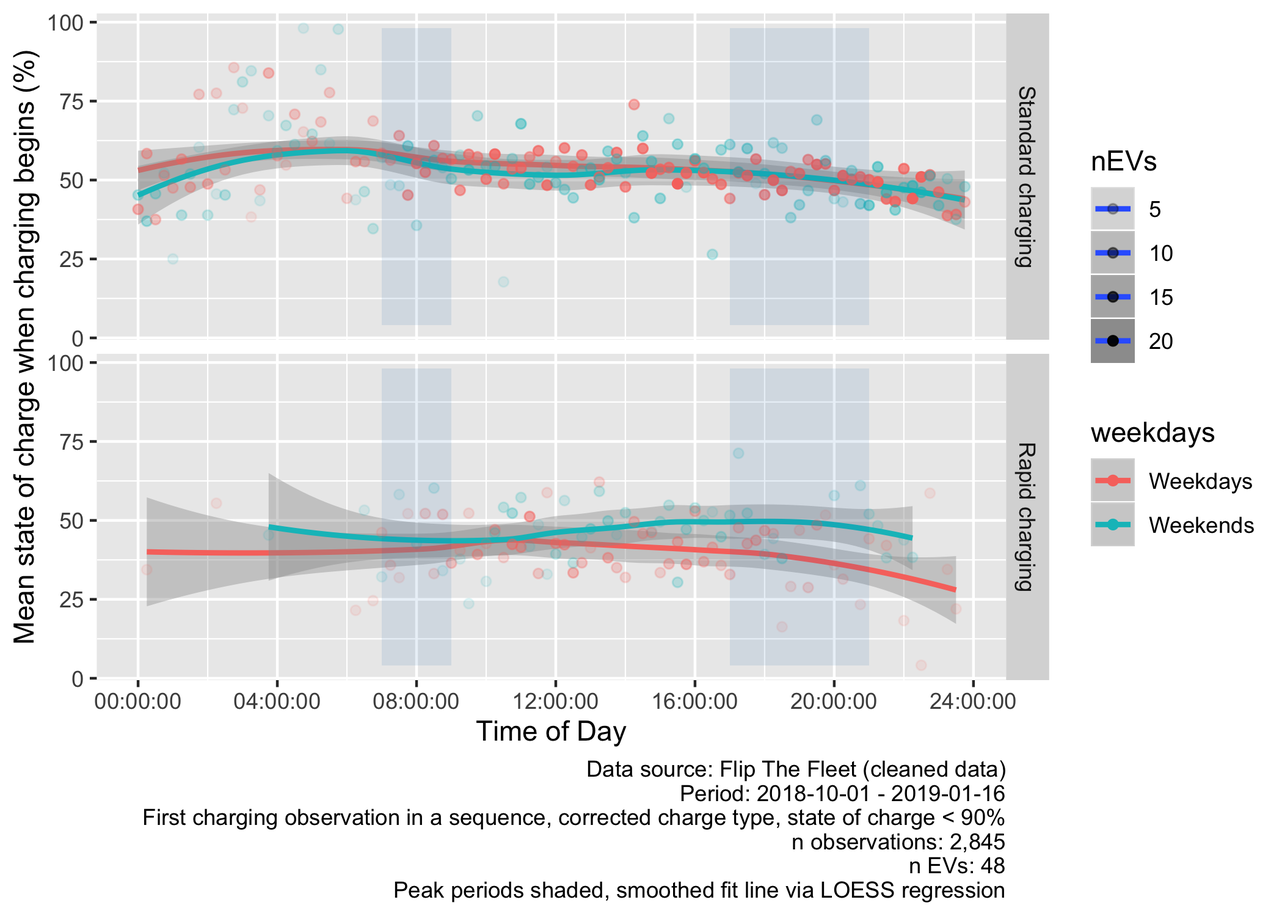
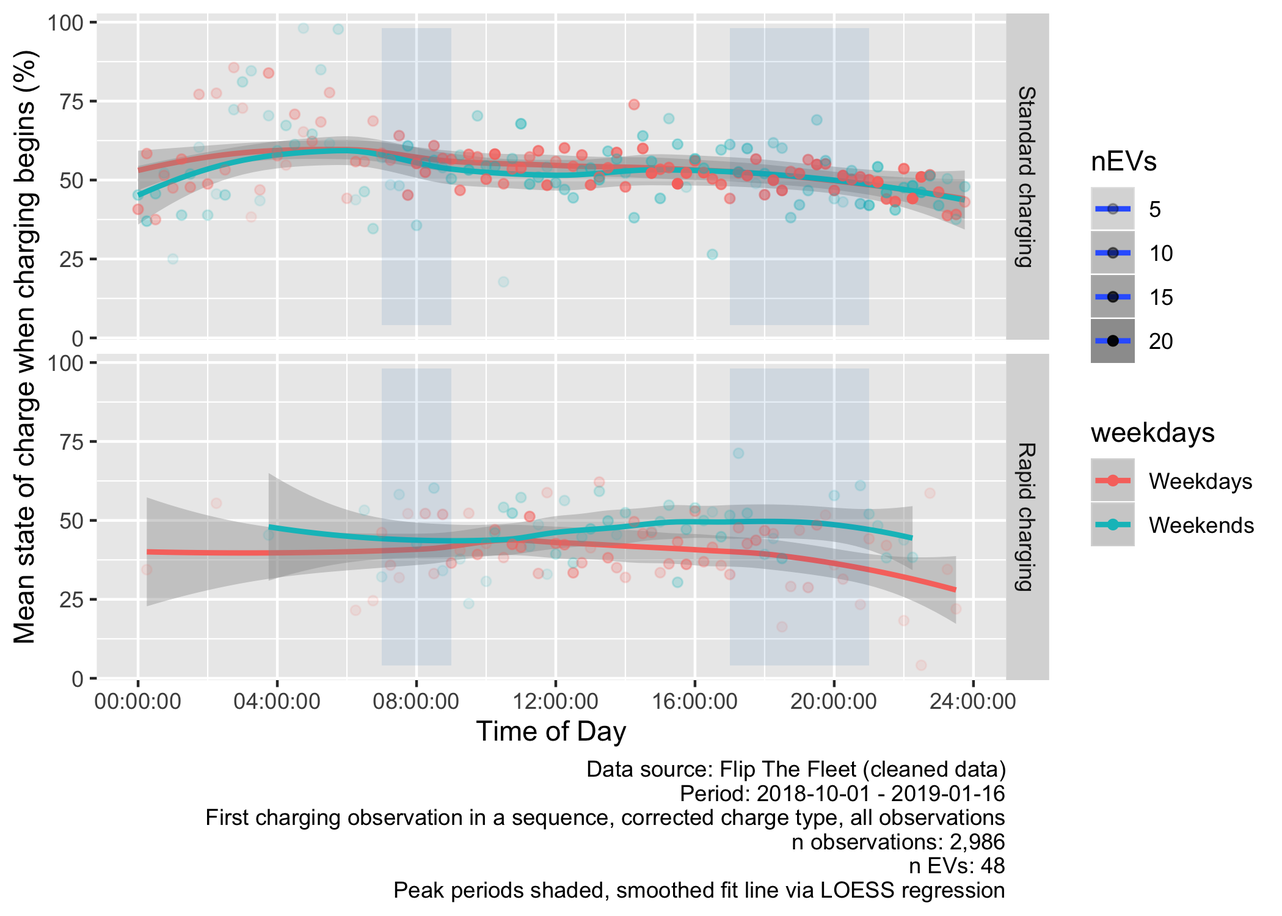
fixed % charge plots (again)

Changed region(s): [[0.1239, 0.8592, 0.8051, 0.9206]]

diff --git a/docs/EVBB_report_1.1_7.4kW_EVBB_processed_all_v2.0_20190604.html b/docs/EVBB_report_1.1_7.4kW_EVBB_processed_all_v2.0_20190604.html
@@ -263,7 +263,7 @@ div.tocify {
 <h1 class="title toc-ignore">Analysis of electric vehicle usage patterns in New Zealand</h1>
 <h3 class="subtitle">Statistical report using Flip The Fleet data</h3>
 <h4 class="author">Rafferty Parker and Ben Anderson (<a href="https://www.otago.ac.nz/centre-sustainability/">Centre for Sustainability</a>, University of Otago, <a href="mailto:ben.anderson@otago.ac.nz" class="email">ben.anderson@otago.ac.nz</a>); Daniel Myall (Flip The Fleet, <a href="mailto:daniel@zeno.nz" class="email">daniel@zeno.nz</a>)</h4>
-<h4 class="date">Last run at: 2019-11-19 13:33:03</h4>
+<h4 class="date">Last run at: 2019-11-19 16:20:26</h4>
 
 </div>
 
@@ -3300,20 +3300,15 @@ Figure 5.10: Value of state of charge at beginning of charging sequence (chargeT
 <li>132 of 379 (34.83%) rapid charging sequences with intial SoC &lt; 90% started with greater than 50% charge;</li>
 <li>1166 of 2466 (47.28%) standard charging sequences with intial SoC &lt; 90% started with greater than 50% charge;</li>
 </ul>
-<div class="figure"><span id="fig:SoCplotTiming1"></span>
-<img src="EVBB_report_1.1_7.4kW_EVBB_processed_all_v2.0_20190604_files/figure-html/SoCplotTiming-1.png" alt="Mean state of charge at beginning of charge sequence by time of day (chargeType corrected, values &gt; 90% removed)" width="672" />
+<div class="figure"><span id="fig:SoCplotTimingAll"></span>
+<img src="EVBB_report_1.1_7.4kW_EVBB_processed_all_v2.0_20190604_files/figure-html/SoCplotTimingAll-1.png" alt="Mean state of charge at beginning of charge sequence by time of day (chargeType corrected, all observations)" width="672" />
 <p class="caption">
-Figure 5.11: Mean state of charge at beginning of charge sequence by time of day (chargeType corrected, values &gt; 90% removed)
+Figure 5.11: Mean state of charge at beginning of charge sequence by time of day (chargeType corrected, all observations)
 </p>
 </div>
-<div class="figure"><span id="fig:SoCplotTiming2"></span>
-<img src="EVBB_report_1.1_7.4kW_EVBB_processed_all_v2.0_20190604_files/figure-html/SoCplotTiming-2.png" alt="Mean state of charge at beginning of charge sequence by time of day (chargeType corrected, values &gt; 90% removed)" width="672" />
-<p class="caption">
-Figure 5.12: Mean state of charge at beginning of charge sequence by time of day (chargeType corrected, values &gt; 90% removed)
-</p>
-</div>
-<p>Finally, Figure <a href="#fig:SoCplotTiming"><strong>??</strong></a> shows the mean % charge by time of first charging observation in a sequence using the cleaned and corrected inferred start/end of charging sequence data. The plot suggests that this capacity may be relatively stable throughout the day albiet with slightly higher mean capacity around the morning peak as we would expect given over-night charging. It is unlikely that this early morning capacity would be willingly made available for V2G since the EV may be used in the near future although this may not always be the case. However it is interesting to note that mean capacity at start of charge in the evening peak period is still roughly 50% indicating relatively substantial power availability.</p>
-<p>Making the assumption that each EV has a 24 kWh battery we can calculate the <em>available</em> kWh at the start of each charge for V2G purposes. This is shown in Table <a href="#tab:v2gEstimates">5.6</a> and Figure <a href="#fig:v2gEstimates">5.13</a>.</p>
+<p>Finally, Figure <a href="#fig:SoCplotTimingAll">5.11</a> shows the mean % charge at the time of first charging observation in a sequence using the cleaned and corrected inferred start/end of charging sequence data. This includes <em>all</em> events, even the brief ‘top-up’ early morning events to indicate when the stored energy is available at the start of a charge sequence.</p>
+<p>The plot suggests that available capacity may be relatively stable throughout the day albiet with a higher mean capacity around the morning peak as we would expect given over-night charging. It is unlikely that this early morning capacity would be willingly made available for V2G since the EV may be used in the near future although this may not always be the case. However it is interesting to note that mean capacity at start of charge in the evening peak period is still roughly 50% indicating relatively good power availability even when we might expect the vehicle to have recently returned home.</p>
+<p>Making the assumption that each EV has a 24 kWh battery we can calculate the <em>available</em> kWh at the start of each charge for V2G purposes. This is shown in Table <a href="#tab:v2gEstimates">5.6</a> and Figure <a href="#fig:v2gEstimates">5.12</a>.</p>
 <table class="table" style="margin-left: auto; margin-right: auto;">
 <caption>
 <span id="tab:v2gEstimates">Table 5.6: </span>Estimated kWh available by time period and charge type
@@ -3546,7 +3541,7 @@ Late evening
 <div class="figure"><span id="fig:v2gEstimates"></span>
 <img src="EVBB_report_1.1_7.4kW_EVBB_processed_all_v2.0_20190604_files/figure-html/v2gEstimates-1.png" alt="Estimates of available kWh by time period" width="672" />
 <p class="caption">
-Figure 5.13: Estimates of available kWh by time period
+Figure 5.12: Estimates of available kWh by time period
 </p>
 </div>
 <p>These show, for example, that the mean kWh available during the evening peak period is 11.67 with a range of 2.14 to 21.58 kWh. We can also see that similar values are available in the morning peak period but further analysis would be required to estimate how much of this could be used during the period without impacting subsequent use. Other analyses could include:</p>
@@ -3561,7 +3556,7 @@ Figure 5.13: Estimates of available kWh by time period
 </div>
 <div id="end-of-charging-sequence" class="section level3">
 <h3><span class="header-section-number">5.3.2</span> End of charging sequence</h3>
-<p>Figure <a href="#fig:SoCplotEnd">5.14</a> shows the state of charge at the end of a charging sequence using the cleaned and corrected inferred start/end of charging sequence data, We can now see that the majority of standard charge sequences end with close to 100% charge but most rapid charge sequences end with around 75-80% charge.</p>
+<p>Figure <a href="#fig:SoCplotEnd">5.13</a> shows the state of charge at the end of a charging sequence using the cleaned and corrected inferred start/end of charging sequence data, We can now see that the majority of standard charge sequences end with close to 100% charge but most rapid charge sequences end with around 75-80% charge.</p>
 <table class="table" style="margin-left: auto; margin-right: auto;">
 <caption>
 <span id="tab:SoCplotEnd">Table 5.7: </span>Summary statistics for % state of charge on last charge in a sequence
@@ -3625,10 +3620,10 @@ Rapid charging
 <div class="figure"><span id="fig:SoCplotEnd"></span>
 <img src="EVBB_report_1.1_7.4kW_EVBB_processed_all_v2.0_20190604_files/figure-html/SoCplotEnd-1.png" alt="Value of state of charge at end of charging sequence (chargeType corrected, all values" width="672" />
 <p class="caption">
-Figure 5.14: Value of state of charge at end of charging sequence (chargeType corrected, all values
+Figure 5.13: Value of state of charge at end of charging sequence (chargeType corrected, all values
 </p>
 </div>
-<p>Figure <a href="#fig:SoCplotDiff">5.15</a> shows the difference in charge gain for all charge sequences where the starting charge was less than 90% (as above).</p>
+<p>Figure <a href="#fig:SoCplotDiff">5.14</a> shows the difference in charge gain for all charge sequences where the starting charge was less than 90% (as above).</p>
 <table class="table" style="margin-left: auto; margin-right: auto;">
 <caption>
 <span id="tab:SoCplotDiff">Table 5.8: </span>Summary statistics for % state of charge gain by last charge in a sequence
@@ -3692,7 +3687,7 @@ Rapid charging
 <div class="figure"><span id="fig:SoCplotDiff"></span>
 <img src="EVBB_report_1.1_7.4kW_EVBB_processed_all_v2.0_20190604_files/figure-html/SoCplotDiff-1.png" alt="Charge gain during charging sequence (chargeType corrected, all values" width="672" />
 <p class="caption">
-Figure 5.15: Charge gain during charging sequence (chargeType corrected, all values
+Figure 5.14: Charge gain during charging sequence (chargeType corrected, all values
 </p>
 </div>
 </div>
@@ -3704,47 +3699,47 @@ Figure 5.15: Charge gain during charging sequence (chargeType corrected, all val
 <blockquote>
 <p>The remaining results in this section are experimental and preliminary. Use with care (if at all) or just skip to the next section (<a href="#imputePower">5.5</a>).</p>
 </blockquote>
-<p>Figure <a href="#fig:nonRapidPowerPlotDT">5.16</a> shows the mean charging demand in kW calculated across all observations after setting rapid charge observations to 0 kW. As we would expect the kW load due to the EVs follows essentially the same shape as the charging event proportions shown above but with slightly more evidence of a 13:00 and 16:00 mini-peak and distinct differences between weekday and weekend mornings. As before, the apparent rapid increase in demand (and the pre-20:00 spike) are more likely to be due to decreasing numbers of ‘non-charging’ observations than increases in charging (see Figure <a href="#fig:chargeTimeDensity">5.3</a>.</p>
+<p>Figure <a href="#fig:nonRapidPowerPlotDT">5.15</a> shows the mean charging demand in kW calculated across all observations after setting rapid charge observations to 0 kW. As we would expect the kW load due to the EVs follows essentially the same shape as the charging event proportions shown above but with slightly more evidence of a 13:00 and 16:00 mini-peak and distinct differences between weekday and weekend mornings. As before, the apparent rapid increase in demand (and the pre-20:00 spike) are more likely to be due to decreasing numbers of ‘non-charging’ observations than increases in charging (see Figure <a href="#fig:chargeTimeDensity">5.3</a>.</p>
 <div class="figure"><span id="fig:nonRapidPowerPlotDT"></span>
 <img src="EVBB_report_1.1_7.4kW_EVBB_processed_all_v2.0_20190604_files/figure-html/nonRapidPowerPlotDT-1.png" alt="Mean kW per quarter hour (treating rapid charging as 0 kW)" width="672" />
 <p class="caption">
-Figure 5.16: Mean kW per quarter hour (treating rapid charging as 0 kW)
+Figure 5.15: Mean kW per quarter hour (treating rapid charging as 0 kW)
 </p>
 </div>
-<p>Figure <a href="#fig:rapidPowerPlotDT">5.17</a> repeats Figure <a href="#fig:nonRapidPowerPlotDT">5.16</a> but shows the mean charging demand in kW calculated across all observations after setting standard charge observations to 0 kW. Again, the kW load due to the EVs follows essentially the same shape as the charging event counts shown above and the low mean value should remind us that rapid charging was relatively rare in the data.</p>
+<p>Figure <a href="#fig:rapidPowerPlotDT">5.16</a> repeats Figure <a href="#fig:nonRapidPowerPlotDT">5.15</a> but shows the mean charging demand in kW calculated across all observations after setting standard charge observations to 0 kW. Again, the kW load due to the EVs follows essentially the same shape as the charging event counts shown above and the low mean value should remind us that rapid charging was relatively rare in the data.</p>
 <div class="figure"><span id="fig:rapidPowerPlotDT"></span>
 <img src="EVBB_report_1.1_7.4kW_EVBB_processed_all_v2.0_20190604_files/figure-html/rapidPowerPlotDT-1.png" alt="Mean kW per quarter hour (treating standard charging as 0 kW)" width="672" />
 <p class="caption">
-Figure 5.17: Mean kW per quarter hour (treating standard charging as 0 kW)
+Figure 5.16: Mean kW per quarter hour (treating standard charging as 0 kW)
 </p>
 </div>
 <p>In next plots we use transparency to indicate the number of EVs contributing to each of the mean calculations to give a guide to their reliability and indicate the relative proportion of sample EVs that contribute to each mean value. Dots with stronger colours indicate means calculated from a larger number of EVs and, given the data gaps noted in Section <a href="#background">4.1</a>, this therefore indicates patterns which are generally shared across a larger number of EVs. We would therefore expect darker dots (most vehicles) durng overnight charge times and lighter plots (fewer vehicles co-incidentally charging) through the day.</p>
-<p>Figure <a href="#fig:meanChargeByTimeStd">5.18</a> shows the mean power demand for standard charging observations by time of day and weekdays vs weekends for the selected time period. This plot appears to show that there are three peaks in standard charging, one at 10:00, one at 18:00 (possibly based on fewer EVs) and one after midnight on weekdays. There are also noticeable 07:00 and 16:00 charging blips. On the other hand at weekends the daytime peak shifts to 14:00. Thus, while our previous analysis suggested that charging events were more likely to start later in the evening, the power demand of earlier charging events may actually be relatively high and co-incide with existing peak demand periods.</p>
+<p>Figure <a href="#fig:meanChargeByTimeStd">5.17</a> shows the mean power demand for standard charging observations by time of day and weekdays vs weekends for the selected time period. This plot appears to show that there are three peaks in standard charging, one at 10:00, one at 18:00 (possibly based on fewer EVs) and one after midnight on weekdays. There are also noticeable 07:00 and 16:00 charging blips. On the other hand at weekends the daytime peak shifts to 14:00. Thus, while our previous analysis suggested that charging events were more likely to start later in the evening, the power demand of earlier charging events may actually be relatively high and co-incide with existing peak demand periods.</p>
 <div class="figure"><span id="fig:meanChargeByTimeStd"></span>
 <img src="EVBB_report_1.1_7.4kW_EVBB_processed_all_v2.0_20190604_files/figure-html/meanChargeByTimeStd-1.png" alt="Mean charging power demand (kW) by time of day ('standard' charging)" width="672" />
 <p class="caption">
-Figure 5.18: Mean charging power demand (kW) by time of day (‘standard’ charging)
+Figure 5.17: Mean charging power demand (kW) by time of day (‘standard’ charging)
 </p>
 </div>
-<p>Rapid charging however has no detectable pattern other than a clear increase in density during weekday daytimes (Figure <a href="#fig:meanChargeByTimeRapid">5.19</a>). However, we can now see the effect that rapid charging may have with significant EV uptake.</p>
+<p>Rapid charging however has no detectable pattern other than a clear increase in density during weekday daytimes (Figure <a href="#fig:meanChargeByTimeRapid">5.18</a>). However, we can now see the effect that rapid charging may have with significant EV uptake.</p>
 <div class="figure"><span id="fig:meanChargeByTimeRapid"></span>
 <img src="EVBB_report_1.1_7.4kW_EVBB_processed_all_v2.0_20190604_files/figure-html/meanChargeByTimeRapid-1.png" alt="Mean charging power demand (kW) by time of day ('rapid' charging)" width="672" />
 <p class="caption">
-Figure 5.19: Mean charging power demand (kW) by time of day (‘rapid’ charging)
+Figure 5.18: Mean charging power demand (kW) by time of day (‘rapid’ charging)
 </p>
 </div>
-<p>It is possible that the ‘standard charge’ day-time peak is skewed by mis-classified short low power ‘Rapid charge’ observations (see Section <a href="#chargeType">4.3.1</a>). Figure <a href="#fig:medianChargeByTime">5.20</a> attempts to allow for this misclassification by plotting the median rather than the mean. The plot more clearly shows the 10:00 weekday spike which, if we assume that the mis-classified ‘Rapid charges’ will be skewing the standard charge mean value upwards, is likely to be due to mis-classified ‘Rapid charging’. However the 18:00 peak persists as does the 14:00 weekend peak while overnight charging levels are relatively stable as we would expect from <a href="#fig:meanChargeByTimeStd">5.18</a>.</p>
+<p>It is possible that the ‘standard charge’ day-time peak is skewed by mis-classified short low power ‘Rapid charge’ observations (see Section <a href="#chargeType">4.3.1</a>). Figure <a href="#fig:medianChargeByTime">5.19</a> attempts to allow for this misclassification by plotting the median rather than the mean. The plot more clearly shows the 10:00 weekday spike which, if we assume that the mis-classified ‘Rapid charges’ will be skewing the standard charge mean value upwards, is likely to be due to mis-classified ‘Rapid charging’. However the 18:00 peak persists as does the 14:00 weekend peak while overnight charging levels are relatively stable as we would expect from <a href="#fig:meanChargeByTimeStd">5.17</a>.</p>
 <div class="figure"><span id="fig:medianChargeByTime"></span>
 <img src="EVBB_report_1.1_7.4kW_EVBB_processed_all_v2.0_20190604_files/figure-html/medianChargeByTime-1.png" alt="Median charging power demand (kW) by time of day" width="672" />
 <p class="caption">
-Figure 5.20: Median charging power demand (kW) by time of day
+Figure 5.19: Median charging power demand (kW) by time of day
 </p>
 </div>
-<p>Figure <a href="#fig:meanChargeByTimeMonth">5.21</a> repeats the median power-based analysis for ‘Standard charging’ but shows the results by month. While the sample size is probably too small to draw robust conclusions there appear to be differences between months with December showing few discernable peaks and September and January showing much lower daytime weekday charging. In addition, weekdays and weekends are much more similar in November and December.</p>
+<p>Figure <a href="#fig:meanChargeByTimeMonth">5.20</a> repeats the median power-based analysis for ‘Standard charging’ but shows the results by month. While the sample size is probably too small to draw robust conclusions there appear to be differences between months with December showing few discernable peaks and September and January showing much lower daytime weekday charging. In addition, weekdays and weekends are much more similar in November and December.</p>
 <div class="figure"><span id="fig:meanChargeByTimeMonth"></span>
 <img src="EVBB_report_1.1_7.4kW_EVBB_processed_all_v2.0_20190604_files/figure-html/meanChargeByTimeMonth-1.png" alt="Median charging power demand (kW) by time of day and month" width="672" />
 <p class="caption">
-Figure 5.21: Median charging power demand (kW) by time of day and month
+Figure 5.20: Median charging power demand (kW) by time of day and month
 </p>
 </div>
 <div id="power-demand-summary" class="section level3">
@@ -3974,7 +3969,7 @@ Max. :6.000
 <div class="figure"><span id="fig:make1minkW"></span>
 <img src="EVBB_report_1.1_7.4kW_EVBB_processed_all_v2.0_20190604_files/figure-html/make1minkW-1.png" alt="Histogram of number of observations per aggregated floor(1 minute) date time per EV" width="672" />
 <p class="caption">
-Figure 5.22: Histogram of number of observations per aggregated floor(1 minute) date time per EV
+Figure 5.21: Histogram of number of observations per aggregated floor(1 minute) date time per EV
 </p>
 </div>
 <p>Next we:</p>
@@ -3984,7 +3979,7 @@ Figure 5.22: Histogram of number of observations per aggregated floor(1 minute) 
 <div class="figure"><span id="fig:chargingKwProfile"></span>
 <img src="EVBB_report_1.1_7.4kW_EVBB_processed_all_v2.0_20190604_files/figure-html/chargingKwProfile-1.png" alt="Half-hourly mean kW for all EVs - testing for missing data" width="672" />
 <p class="caption">
-Figure 5.23: Half-hourly mean kW for all EVs - testing for missing data
+Figure 5.22: Half-hourly mean kW for all EVs - testing for missing data
 </p>
 </div>
 <p>NB: calculating a mean across these half-hourly observations requires knowing how many half-hours are missing and so can be set to 0.</p>
@@ -4451,7 +4446,7 @@ Rapid charging
 <div class="figure"><span id="fig:estimatekWhByPeak"></span>
 <img src="EVBB_report_1.1_7.4kW_EVBB_processed_all_v2.0_20190604_files/figure-html/estimatekWhByPeak-1.png" alt="% total mean kWh consumption per EV" width="672" />
 <p class="caption">
-Figure 5.24: % total mean kWh consumption per EV
+Figure 5.23: % total mean kWh consumption per EV
 </p>
 </div>
 <p>Table <a href="#tab:estimatekWhByPeak">5.11</a> and Figure <a href="#tab:estimatekWhByPeak">5.11</a> repeats this analysis but shows the results by peak period. Clearly rapid charging during the day dominates energy (kWh) consumption with standard charging during the evening peak being responsible for a mere 3-4% of the energy consumed by EV charging.</p>
@@ -4464,17 +4459,17 @@ Figure 5.24: % total mean kWh consumption per EV
 </ul>
 <p><img src="EVBB_report_1.1_7.4kW_EVBB_processed_all_v2.0_20190604_files/figure-html/makeHalfHourlyKWh-1.png" width="672" /></p>
 <p>Next we simply sum these kWh values across all observations for different categories to get some idea of the relative proportions of energy being drawn in different contexts and charging situations</p>
-<p>Figure <a href="#fig:plotKWhWeekdays">5.25</a> shows the results of doing this for weekends and weekdays. Note that the totals have been ‘normalised’ to allow for the different numbers of weekdays vs weekend days but we make no checks as to whether the ‘right’ number of weekdays and weekend days are represented in the data (e.g. where we received no data due to inactivity - see above). This shows that the patterns of weekday vs weekend energy consumption are similar with overnight standard charging dominating. Consumption during morning peak periods is low but slightly higher in the evening peaks as the charging timing results above would imply. Rapid charging plays a larger role in day-time energy consumption but it’s rarity means that despite higher power demand (kW) it’s energy impact (kWh) is relatively low in this sample.</p>
+<p>Figure <a href="#fig:plotKWhWeekdays">5.24</a> shows the results of doing this for weekends and weekdays. Note that the totals have been ‘normalised’ to allow for the different numbers of weekdays vs weekend days but we make no checks as to whether the ‘right’ number of weekdays and weekend days are represented in the data (e.g. where we received no data due to inactivity - see above). This shows that the patterns of weekday vs weekend energy consumption are similar with overnight standard charging dominating. Consumption during morning peak periods is low but slightly higher in the evening peaks as the charging timing results above would imply. Rapid charging plays a larger role in day-time energy consumption but it’s rarity means that despite higher power demand (kW) it’s energy impact (kWh) is relatively low in this sample.</p>
 <div class="figure"><span id="fig:plotKWhWeekdays"></span>
 <img src="EVBB_report_1.1_7.4kW_EVBB_processed_all_v2.0_20190604_files/figure-html/plotKWhWeekdays-1.png" alt="Total normalised kWh by weekday and charge type" width="672" />
 <p class="caption">
-Figure 5.25: Total normalised kWh by weekday and charge type
+Figure 5.24: Total normalised kWh by weekday and charge type
 </p>
 </div>
 <div class="figure"><span id="fig:plotKWh"></span>
 <img src="EVBB_report_1.1_7.4kW_EVBB_processed_all_v2.0_20190604_files/figure-html/plotKWh-1.png" alt="% total kWh by charge type and peak period" width="672" />
 <p class="caption">
-Figure 5.26: % total kWh by charge type and peak period
+Figure 5.25: % total kWh by charge type and peak period
 </p>
 </div>
 <table class="table" style="margin-left: auto; margin-right: auto;">
@@ -5196,7 +5191,7 @@ Figure 6.5: Actual wholesale generation and estimated energy consumption under S
 <h1><span class="header-section-number">7</span> Summary</h1>
 <p>Based on a relatively small and probably non-representative sample of 48 domestic electric vehicles provided by our research partner <a href="https://flipthefleet.org/">FlipTheFleet</a> and which were monitored from Inf to -Inf we have found that:</p>
 <ul>
-<li><em>Power supplied</em>: The median power supplied during a charging event coded as ‘standard’ was 1.76 kW. The mean was slightly higher at 2.09 kW. Charging observations coded as ‘Rapid’ had a median of 1.76 kW (mean = 2.09 kW). Mean power when charging showed a complex temporal profile for weekday standard charging (Figure <a href="#fig:meanChargeByTimeStd">5.18</a>) with a peak of ~ 2.5kw at 10:00 and a second of the same value at around 18:00 with further peaks just after midnight. The inverse is seen on weekends with a charge peak during the middle of the day;</li>
+<li><em>Power supplied</em>: The median power supplied during a charging event coded as ‘standard’ was 1.76 kW. The mean was slightly higher at 2.09 kW. Charging observations coded as ‘Rapid’ had a median of 1.76 kW (mean = 2.09 kW). Mean power when charging showed a complex temporal profile for weekday standard charging (Figure <a href="#fig:meanChargeByTimeStd">5.17</a>) with a peak of ~ 2.5kw at 10:00 and a second of the same value at around 18:00 with further peaks just after midnight. The inverse is seen on weekends with a charge peak during the middle of the day;</li>
 <li><em>Charging duration</em>: Charging durations tended to fall into one of two groups. Longer ‘standard’ charges had a median duration of 207.12 minutes and a mean duration of 243.01 minutes. High power ‘Rapid’ charge events had a median duration of 14.26 minutes and a mean duration of 14.26 minutes;</li>
 <li><em>Time of day</em>: Standard charging events tended to be the most frequent around 22:00 on both weekdays and weekends, suggesting the drivers in our dataset utilise timers to take advantage of off-peak electricity although this is not universal with a substantial proportion of charging events starting earlier in the day and potentially at higher power levels (see above). Rapid charging events tended to begin at 11:30am on weekdays and 1pm during weekends;</li>
 <li><em>State of charge</em>: As has been previously shown <span class="citation">(Speidel and Bräunl 2014)</span>, any drivers begin recharging with greater than 50% charge still remaining in the battery for both standard and rapid charge events. This has clear implications both for the management of battery life and also for the potential for vehicle-to-grid power flows during peak demand periods where vehicles may be at or arriving home with substantial available charge.</li>
@@ -5221,17 +5216,17 @@ Figure 6.5: Actual wholesale generation and estimated energy consumption under S
 ##  n obs: 1882040 
 ##  n variables: 9 
 ## 
-## ── Variable type:character ─────────────────────────────────────────────────────────────────────────────────────────
+## ── Variable type:character ─────────────────────────────────────────────────────────────────────────────────────────────
 ##  variable missing complete       n min max empty n_unique
 ##  charging       0  1882040 1882040  26  31     0        2
 ##      dvID       0  1882040 1882040   9  10     0       52
 ##        id       0  1882040 1882040  32  32     0       52
 ## 
-## ── Variable type:difftime ──────────────────────────────────────────────────────────────────────────────────────────
+## ── Variable type:difftime ──────────────────────────────────────────────────────────────────────────────────────────────
 ##  variable missing complete       n    min        max     median n_unique
 ##   timeChr       0  1882040 1882040 0 secs 86399 secs 44877 secs    86400
 ## 
-## ── Variable type:numeric ───────────────────────────────────────────────────────────────────────────────────────────
+## ── Variable type:numeric ───────────────────────────────────────────────────────────────────────────────────────────────
 ##                 variable missing complete       n    mean      sd     p0
 ##          charge_power_kw       0  1882040 1882040    1.59   63.73      0
 ##              odometer_km 1255614   626426 1882040 7789.97 8268.44 -62920
@@ -5241,7 +5236,7 @@ Figure 6.5: Actual wholesale generation and estimated energy consumption under S
 ##  2166.25 5309    11154    73607    ▁▁▁▇▇▁▁▁
 ##    56.31   70.41    83.05  1677.72 ▇▁▁▁▁▁▁▁
 ## 
-## ── Variable type:POSIXct ───────────────────────────────────────────────────────────────────────────────────────────
+## ── Variable type:POSIXct ───────────────────────────────────────────────────────────────────────────────────────────────
 ##            variable missing complete       n        min        max
 ##          r_dateTime     137  1881903 1882040 2018-04-05 2019-03-01
 ##  r_dateTimeHalfHour     137  1881903 1882040 2018-04-05 2019-03-01
@@ -5257,20 +5252,20 @@ Figure 6.5: Actual wholesale generation and estimated energy consumption under S
 ##  n obs: 1074730 
 ##  n variables: 24 
 ## 
-## ── Variable type:character ─────────────────────────────────────────────────────────────────────────────────────────
+## ── Variable type:character ─────────────────────────────────────────────────────────────────────────────────────────────
 ##    variable missing complete       n min max empty n_unique
 ##  chargeFlag       2  1074728 1074730  17  25     0        5
 ##        dvID       0  1074730 1074730   9  10     0       48
 ##          id       0  1074730 1074730  32  32     0       48
 ##    weekdays       0  1074730 1074730   8   8     0        2
 ## 
-## ── Variable type:Date ──────────────────────────────────────────────────────────────────────────────────────────────
+## ── Variable type:Date ──────────────────────────────────────────────────────────────────────────────────────────────────
 ##  variable missing complete       n        min        max     median
 ##      date       0  1074730 1074730 2018-10-01 2019-01-16 2018-11-22
 ##  n_unique
 ##       108
 ## 
-## ── Variable type:difftime ──────────────────────────────────────────────────────────────────────────────────────────
+## ── Variable type:difftime ──────────────────────────────────────────────────────────────────────────────────────────────
 ##        variable missing complete       n    min          max     median
 ##             hms       0  1074730 1074730 0 secs   86399 secs 43858 secs
 ##           qHour       0  1074730 1074730 0 secs   85500 secs 43200 secs
@@ -5282,7 +5277,7 @@ Figure 6.5: Actual wholesale generation and estimated energy consumption under S
 ##     11447
 ##     86394
 ## 
-## ── Variable type:factor ────────────────────────────────────────────────────────────────────────────────────────────
+## ── Variable type:factor ────────────────────────────────────────────────────────────────────────────────────────────────
 ##     variable missing complete       n n_unique
 ##   chargeType       0  1074730 1074730        3
 ##  day_of_week       0  1074730 1074730        7
@@ -5292,7 +5287,7 @@ Figure 6.5: Actual wholesale generation and estimated energy consumption under S
 ##  Fri: 173053, Wed: 170267, Thu: 165276, Tue: 156780    TRUE
 ##  Ear: 356511, Day: 347804, Eve: 163020, Lat: 147782   FALSE
 ## 
-## ── Variable type:numeric ───────────────────────────────────────────────────────────────────────────────────────────
+## ── Variable type:numeric ───────────────────────────────────────────────────────────────────────────────────────────────
 ##         variable missing complete       n    mean      sd     p0    p25
 ##  charge_power_kw       0  1074730 1074730    1.59    2.87      0    0  
 ##            month       0  1074730 1074730    9.71    3.42      1   10  
@@ -5308,7 +5303,7 @@ Figure 6.5: Actual wholesale generation and estimated energy consumption under S
 ##    70.21   82.89    98.1  ▁▁▂▃▆▇▇▇
 ##     0       0       70.16 ▇▁▁▁▁▁▁▁
 ## 
-## ── Variable type:POSIXct ───────────────────────────────────────────────────────────────────────────────────────────
+## ── Variable type:POSIXct ───────────────────────────────────────────────────────────────────────────────────────────────
 ##            variable missing complete       n        min        max
 ##          r_dateTime       0  1074730 1074730 2018-10-01 2019-01-16
 ##    r_dateTime1MinFl       0  1074730 1074730 2018-10-01 2019-01-16
@@ -5329,7 +5324,7 @@ Figure 6.5: Actual wholesale generation and estimated energy consumption under S
 ##  n obs: 2986 
 ##  n variables: 24 
 ## 
-## ── Variable type:character ─────────────────────────────────────────────────────────────────────────────────────────
+## ── Variable type:character ─────────────────────────────────────────────────────────────────────────────────────────────
 ##         variable missing complete    n min max empty n_unique
 ##       chargeFlag       0     2986 2986  25  25     0        1
 ##  chargeTypeError       0     2986 2986  31  37     0        4
@@ -5337,11 +5332,11 @@ Figure 6.5: Actual wholesale generation and estimated energy consumption under S
 ##               id       0     2986 2986  32  32     0       48
 ##         weekdays       0     2986 2986   8   8     0        2
 ## 
-## ── Variable type:Date ──────────────────────────────────────────────────────────────────────────────────────────────
+## ── Variable type:Date ──────────────────────────────────────────────────────────────────────────────────────────────────
 ##  variable missing complete    n        min        max     median n_unique
 ##      date       0     2986 2986 2018-10-01 2019-01-16 2018-11-22      108
 ## 
-## ── Variable type:difftime ──────────────────────────────────────────────────────────────────────────────────────────
+## ── Variable type:difftime ──────────────────────────────────────────────────────────────────────────────────────────────
 ##        variable missing complete    n                   min
 ##         endTime       0     2986 2986 31 secs              
 ##             hms       0     2986 2986 40 secs              
@@ -5357,7 +5352,7 @@ Figure 6.5: Actual wholesale generation and estimated energy consumption under S
 ##  230025 secs            339 secs               1685
 ##   86246 secs          56268 secs               2871
 ## 
-## ── Variable type:factor ────────────────────────────────────────────────────────────────────────────────────────────
+## ── Variable type:factor ────────────────────────────────────────────────────────────────────────────────────────────────
 ##             variable missing complete    n n_unique
 ##           chargeType       0     2986 2986        2
 ##  chargeTypeCorrected       0     2986 2986        2
@@ -5371,7 +5366,7 @@ Figure 6.5: Actual wholesale generation and estimated energy consumption under S
 ##       Sta: 2664, Rap: 322, Not: 0, NA: 0   FALSE
 ##  Day: 1147, Lat: 699, Eve: 556, Ear: 408   FALSE
 ## 
-## ── Variable type:numeric ───────────────────────────────────────────────────────────────────────────────────────────
+## ── Variable type:numeric ───────────────────────────────────────────────────────────────────────────────────────────────
 ##         variable missing complete    n    mean      sd        p0     p25
 ##  charge_power_kw       0     2986 2986    6.73   12.14      0.5     1.56
 ##            month       0     2986 2986    9.56    3.58      1      10   
@@ -5385,7 +5380,7 @@ Figure 6.5: Actual wholesale generation and estimated energy consumption under S
 ##     0       0    37626    ▁▁▇▁▁▁▁▁
 ##    49.02   60.92    98.1  ▁▃▆▇▇▃▂▂
 ## 
-## ── Variable type:POSIXct ───────────────────────────────────────────────────────────────────────────────────────────
+## ── Variable type:POSIXct ───────────────────────────────────────────────────────────────────────────────────────────────
 ##    variable missing complete    n        min        max     median
 ##  r_dateTime       0     2986 2986 2018-10-01 2019-01-16 2018-11-22
 ##   startTime       0     2986 2986 2018-10-01 2019-01-16 2018-11-22
